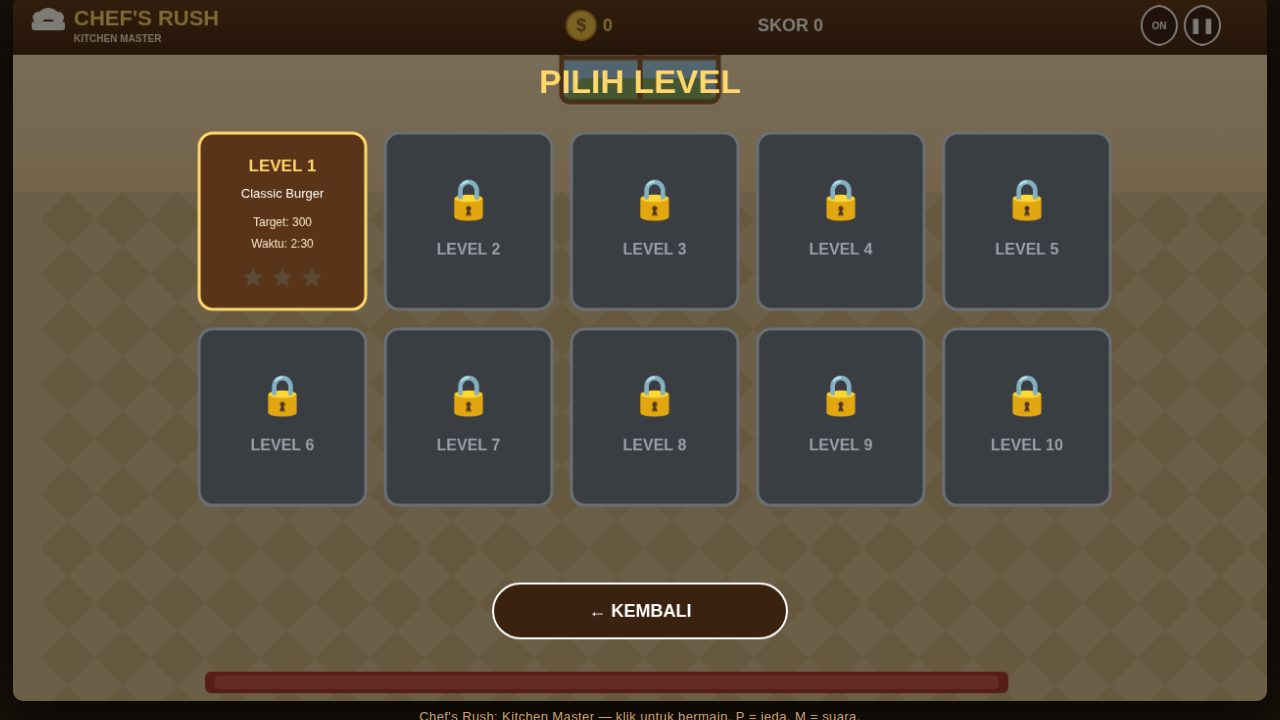
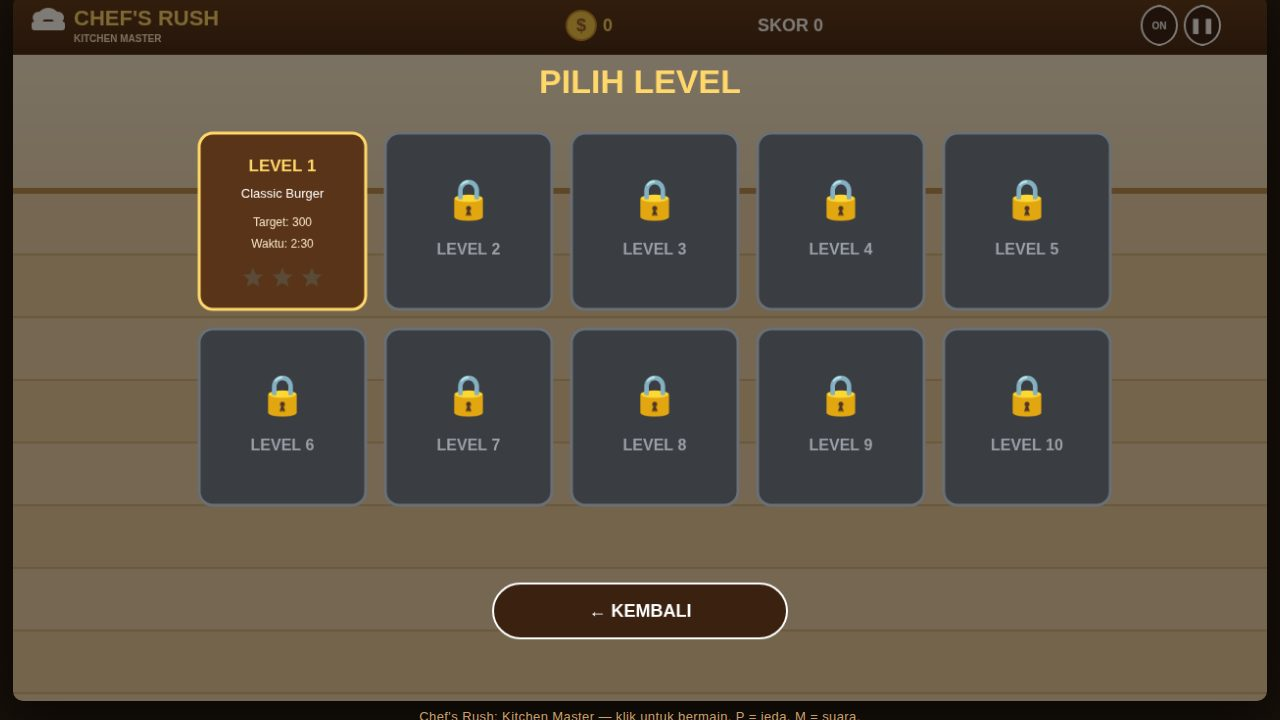
Chef's Rush v1.5: poles visual — latar kayu bersih, slot kosong garis putus, ikon tiket burger mini, ikon sampah

diff --git a/game/render.js b/game/render.js
@@ -126,25 +126,18 @@ export function drawFace(c, custIdx, x, y, r, mood) {
 
 // ---- Latar dapur ----
 function drawBackground(c, g) {
-  // dinding
+  // dinding krem bersih (tanpa pola — tenang dan jernih)
   const wall = c.createLinearGradient(0, 0, 0, 200);
-  wall.addColorStop(0, '#f7e8c8'); wall.addColorStop(1, '#e8cfa0');
+  wall.addColorStop(0, '#faf3e0'); wall.addColorStop(1, '#f0dfbc');
   c.fillStyle = wall; c.fillRect(0, 0, W, 200);
-  // jendela (ruang pelanggan di kejauhan)
-  c.fillStyle = '#9ecfee'; rr(c, 560, 18, 160, 90, 8); c.fill();
-  c.fillStyle = '#e8f6ff'; circle(c, 600, 42, 14); c.fill(); circle(c, 620, 48, 10); c.fill();
-  c.fillStyle = '#7fb069'; c.beginPath(); c.moveTo(560, 108); c.lineTo(720, 108); c.lineTo(700, 84); c.lineTo(580, 84); c.closePath(); c.fill();
-  c.strokeStyle = '#8a5a2e'; c.lineWidth = 5; rr(c, 560, 18, 160, 90, 8); c.stroke();
-  c.beginPath(); c.moveTo(640, 18); c.lineTo(640, 108); c.moveTo(560, 63); c.lineTo(720, 63); c.stroke();
-  // lantai ubin
-  c.fillStyle = '#d8c49a'; c.fillRect(0, 200, W, H - 200);
-  c.fillStyle = '#cdb586';
-  for (let y = 200; y < H; y += 56) for (let x = ((y / 56) % 2 ? 28 : 0); x < W; x += 56) {
-    c.beginPath(); c.moveTo(x + 28, y); c.lineTo(x + 56, y + 28); c.lineTo(x + 28, y + 56); c.lineTo(x, y + 28); c.closePath(); c.fill();
-  }
-  // karpet merah di bawah meja
-  c.fillStyle = '#a83232'; rr(c, 196, 690, 820, 22, 6); c.fill();
-  c.fillStyle = '#c85050'; rr(c, 206, 694, 800, 14, 4); c.fill();
+  // lantai kayu: papan horizontal dengan garis sambungan yang halus
+  c.fillStyle = '#e6cf9f'; c.fillRect(0, 200, W, H - 200);
+  c.fillStyle = 'rgba(255,255,255,0.16)';
+  for (let y = 200; y < H; y += 128) c.fillRect(0, y, W, 64);
+  c.strokeStyle = '#d3b57e'; c.lineWidth = 2;
+  for (let y = 200; y < H; y += 64) { c.beginPath(); c.moveTo(0, y); c.lineTo(W, y); c.stroke(); }
+  // garis dasar dinding (baseboard) — rapi, bukan karpet
+  c.fillStyle = '#b98d4f'; c.fillRect(0, 196, W, 6);
 }
 
 // ---- Bar atas ----
@@ -238,14 +231,16 @@ function drawBins(c, g) {
     const empty = stock <= 0;
     // nampan baja
     const grad = c.createLinearGradient(b.x, b.y, b.x, b.y + b.h);
-    grad.addColorStop(0, '#d8dce2'); grad.addColorStop(1, '#9aa0a8');
+    grad.addColorStop(0, '#e8ebef'); grad.addColorStop(1, '#9aa0a8');
     rr(c, b.x, b.y, b.w, b.h, 8); c.fillStyle = grad; c.fill();
     c.strokeStyle = '#6a7076'; c.lineWidth = 2; c.stroke();
+    // kilau atas nampan
+    c.fillStyle = 'rgba(255,255,255,0.5)'; rr(c, b.x + 4, b.y + 3, b.w - 8, 5, 2); c.fill();
     if (empty) { c.fillStyle = 'rgba(40,30,20,0.45)'; rr(c, b.x, b.y, b.w, b.h, 8); c.fill(); }
-    drawFood(c, b.id, b.x + b.w / 2, b.y + 30, 40);
+    drawFood(c, b.id, b.x + b.w / 2, b.y + 32, 44);
     // label + stok
-    pill(c, b.x + 4, b.y + b.h - 20, b.w - 8, 16, 'rgba(20,12,6,0.85)');
-    text(c, ing.name.toUpperCase(), b.x + b.w / 2, b.y + b.h - 11, 9, '#ffffff');
+    pill(c, b.x + 4, b.y + b.h - 21, b.w - 8, 17, 'rgba(20,12,6,0.88)');
+    text(c, ing.name.toUpperCase(), b.x + b.w / 2, b.y + b.h - 12, 10, '#ffffff');
     if (stock < ing.maxStock) {
       pill(c, b.x + b.w - 20, b.y + 2, 18, 16, '#7a1e1e');
       text(c, String(stock), b.x + b.w - 11, b.y + 11, 11, '#ffffff');
@@ -257,6 +252,15 @@ function drawBins(c, g) {
 }
 
 // ---- Stasiun masak ----
+// slot kosong: lingkaran garis putus-putus (jelas sebagai "belum terisi")
+function emptySlot(c, x, y) {
+  c.save();
+  c.strokeStyle = 'rgba(230,230,230,0.55)'; c.lineWidth = 2; c.setLineDash([6, 6]);
+  circle(c, x, y, 30); c.stroke();
+  c.setLineDash([]);
+  text(c, 'kosong', x, y + 44, 11, 'rgba(230,230,230,0.75)', 'center', false);
+  c.restore();
+}
 function cookBar(c, x, y, w, pct) {
   rr(c, x, y, w, 10, 5); c.fillStyle = '#221610'; c.fill();
   let col = '#58b368';
@@ -318,7 +322,7 @@ function drawStations(c, g) {
         circle(c, sx + 55 + Math.cos(g.time * 5 + i) * 6, sy + 4, 2.5); c.fill();
       }
     } else {
-      text(c, 'kosong', sx + 42, sy + 34, 12, '#9aa0a8', 'center', false);
+      emptySlot(c, sx + 42, sy + 34);
     }
   }
   // --- Panggangan ---
@@ -344,7 +348,7 @@ function drawStations(c, g) {
       cookBar(c, sx, sy + 86, 84, pct);
       if (pct > 100) { c.fillStyle = 'rgba(60,60,60,0.5)'; circle(c, sx + 42, sy + 34, 30); c.fill(); }
     } else {
-      text(c, 'kosong', sx + 42, sy + 34, 12, '#9aa0a8', 'center', false);
+      emptySlot(c, sx + 42, sy + 34);
     }
   }
 }
@@ -362,7 +366,7 @@ function drawBoard(c, g) {
   c.strokeStyle = '#a87c3e'; c.lineWidth = 2; c.stroke();
   // tumpukan layer
   if (g.board.length === 0) {
-    text(c, 'Klik bahan sesuai resep', b.x + b.w / 2, b.y + 88, 13, '#8a5a2e', 'center', false);
+    text(c, 'Klik bahan sesuai resep', b.x + b.w / 2, b.y + 88, 13, '#5a3418');
   } else {
     const n = g.board.length;
     g.board.forEach((layer, i) => {
@@ -425,6 +429,11 @@ function drawPlates(c, g) {
   rr(c, t.x, t.y, t.w, t.h, 12); c.fillStyle = '#3a3d42'; c.fill();
   c.strokeStyle = '#22242a'; c.lineWidth = 3; c.stroke();
   c.fillStyle = '#5a5f66'; rr(c, t.x + 12, t.y + 24, t.w - 24, 120, 8); c.fill();
+  // ikon tempat sampah
+  c.fillStyle = '#8a8f96'; rr(c, t.x + t.w / 2 - 22, t.y + 62, 44, 52, 6); c.fill();
+  c.fillStyle = '#6a7076'; rr(c, t.x + t.w / 2 - 26, t.y + 52, 52, 10, 4); c.fill();
+  c.fillStyle = '#3a3d42';
+  [-12, 0, 12].forEach(o => { rr(c, t.x + t.w / 2 + o - 2, t.y + 76, 4, 26, 2); c.fill(); });
   text(c, 'SAMPAH', t.x + t.w / 2, t.y + 18, 12, '#ffffff');
   text(c, 'Buang bahan', t.x + t.w / 2, t.y + 160, 11, '#d8dce2', 'center', false);
   text(c, 'gosong di sini', t.x + t.w / 2, t.y + 176, 11, '#d8dce2', 'center', false);
@@ -466,7 +475,9 @@ function drawOrderBoard(c, g) {
       const recipe = RECIPES[o.recipeId];
       const frac = Math.max(0, o.patience / o.maxPatience);
       text(c, 'PESANAN #' + String(o.id).padStart(2, '0'), L.railR.x + 132, y + 18, 13, '#8a5a2e');
-      drawFood(c, recipe.layers[3] ? recipe.layers[3].item : recipe.layers[0].item, L.railR.x + 40, y + 52, 44);
+      // ikon hidangan: tumpukan mini 3 lapis (bukan 1 bahan saja)
+      const iconLayers = [recipe.layers[0], recipe.layers[Math.floor(recipe.layers.length / 2)], recipe.layers[recipe.layers.length - 1]];
+      iconLayers.forEach((layer, k) => drawFood(c, layer.item, L.railR.x + 40, y + 62 - k * 8, 34));
       text(c, recipe.name, L.railR.x + 132, y + 52, 15, '#3a2110', 'left');
       text(c, 'Hadiah: ' + o.reward + ' koin', L.railR.x + 132, y + 74, 12, '#8a5a2e', 'left', false);
       // daftar bahan
